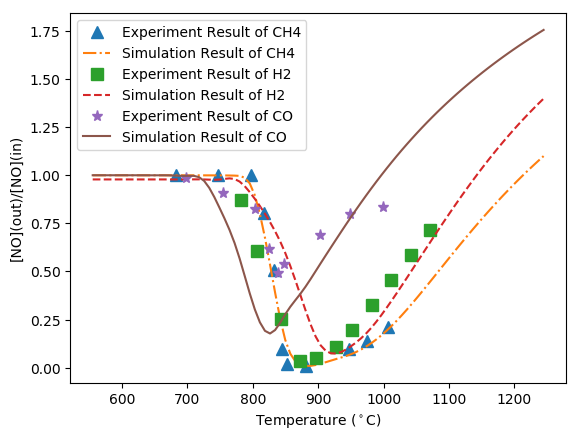
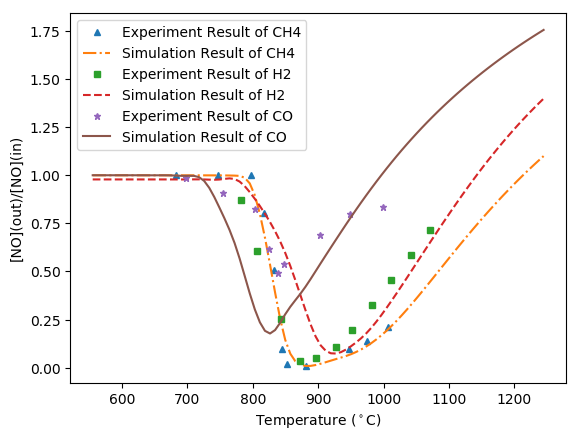
plot the additive only test nsr=0

diff --git a/AllFig4Thesis.py b/AllFig4Thesis.py
@@ -66,6 +66,73 @@ class plotData:
         draw_image(indicator='Mole fraction NO2 end point')
         draw_image(indicator='Mole fraction N2O end point')
         draw_image(indicator='Mole fraction NH3 end point')       
+    def Additive_NSR0(self):
+        df=pd.read_csv('DataAnalyse\CSV_4_SNCR\SNCR_NSR=0_T100.csv',header=0).drop_duplicates()
+        df.count()
+        add2=df[abs(df["Reactant Fraction for H2 C1 Inlet1 PFR (C1)_(mole_fraction)"]-9.0*(df["Reactant Fraction for CO2 C1 Inlet1 PFR (C1)_(mole_fraction)"]-0.15))<10e-6]
+        add2.count()
+        add1=df[abs(df["Reactant Fraction for H2 C1 Inlet1 PFR (C1)_(mole_fraction)"]-34.0/31.0*(df["Reactant Fraction for CO2 C1 Inlet1 PFR (C1)_(mole_fraction)"]-0.15))<10e-7]
+        #here we can not write 34/31, the python will take this as 1
+        #add1[add1["Reactant Fraction for H2 C1 Inlet1 PFR (C1)_(mole_fraction)"]==0].count()
+        add1.count()
+        h2_add1=np.linspace(0.000102,0.002754,num=14).tolist()
+        h2_add1.insert(0,0)# the first time I used h2_add1=h2_add1.inset, but it doesn t work, the result is not in the return value of insert
+        h2_add1=np.asarray(h2_add1[1:14:3])
+        h2_add2=np.linspace(0.27*3e-4,0.27*8.1e-3,num=14).tolist()
+        h2_add2.insert(0,0)# the first time I used h2_add1=h2_add1.inset, but it doesn t work, the result is not in the return value of insert
+        #h2_add2=np.asarray(h2_add2[1:14:3])
+        h2_add2=np.asarray([0,0.000081,0.000243,0.000405,0.000567,0.000729,0.000891,0.001053,0.001215,0.001377,0.001539,0.001701,0.001863, \
+                            0.002025,0.002187][1:14:3])
+        h2_percentage=[0.34,0.27]
+        symbol=['s','^','o','*','v','d','1']
+        k=0
+        for i in [0,1]:
+            addx=[add1,add2][i]
+            h2_addx=[h2_add1,h2_add2][i]
+            addx['Mole_Fraction_NOx']=addx['Mole fraction NO2 end point']+addx['Mole fraction NO end point']+addx['Mole fraction N2O end point']
+            for indicator in ['Mole fraction NO end point','Mole fraction NO2 end point','Mole fraction N2O end point','Mole_Fraction_NOx']:
+                plt.figure()
+                plt.xlabel('Temperature ($^\circ$C)',fontsize=self.axissize)
+                try:
+                    ylbl="["+indicator.split(" ")[2]+"](out)/[NO](in)"
+                except:
+                    ylbl="["+indicator.split("_")[2]+"](out)/[NO](in)"
+                plt.ylabel(ylbl,fontsize=self.axissize)
+                lgd=[]
+                for h2 in h2_addx:
+                    
+                    k=k+1
+                    dataSet=addx[abs(addx['Reactant Fraction for H2 C1 Inlet1 PFR (C1)_(mole_fraction)']-h2)<10e-6]
+                    f=interp1d(dataSet['Temperature C1 PFR PFR (C1)_(C)'],dataSet[indicator],kind='slinear')
+                    temperature_new=np.linspace(100,1240,num=90,endpoint=True)
+                    plt.plot(temperature_new,f(temperature_new)/(200e-6),symbol[k%7]+'--',markersize=self.mkrSize-2)
+                    lgd.append('Addtive#'+str(i+1)+'='+"{:.4f}".format(h2/h2_percentage[i]))                    
+                plt.legend(lgd,fontsize=self.lgdsize)
+                plt.savefig("DataAnalyse\\Fig\\"+ylbl.replace("/","")+".png",bbox_inches='tight')
+        df2=pd.read_csv(r'DataAnalyse\CSV_4_SNCR\NSR_New__ADD_ITL.csv',header=0)
+        df2['Mole Fraction NOx']=df2['Mole fraction NO2 end point']+df2['Mole fraction NO end point']+df2['Mole fraction N2O end point']
+        symbol=['s','^','o','*','v','d','1']
+        l=0
+        for indicator in ['Mole fraction NO end point','Mole fraction NO2 end point','Mole fraction N2O end point','Mole Fraction NOx']:
+            plt.figure()
+            plt.xlabel('Temperature ($^\circ$C)',fontsize=self.axissize)
+            try:
+                ylbl="["+indicator.split(" ")[2]+"](out)/[NO](in)"
+            except:
+                ylbl="["+indicator.split("_")[2]+"](out)/[NO](in)"
+            plt.ylabel(ylbl,fontsize=self.axissize)
+            lgd=[]
+            for j in np.array([0,1,2,3,4]):
+                l+=1
+                dataSet=df2[abs(df2['Reactant Fraction for NH3 C1 Inlet1 PFR (C1)_(mole_fraction)']-0.00012*j)<10e-7].drop_duplicates()
+                f=interp1d(dataSet['Temperature C1 PFR PFR (C1)_(C)'],dataSet[indicator],kind='cubic')
+                temperature_new=np.linspace(550,1250,num=90,endpoint=True)
+                plt.plot(temperature_new,f(temperature_new)/(200e-6),symbol[l%6]+'--',markersize=self.mkrSize-2)
+                lgd.append('NSR='+"{:.1f}".format(j*0.00012/0.0002)+":"+"NH3="+str(j*0.00012))                
+            plt.legend(lgd,fontsize=self.axissize)
+            plt.savefig("DataAnalyse\\Fig\\"+ylbl.replace("/","_")+".png",bbox_inches='tight')
+            plt.close()
+
     def verifyCaoQingXi(self):        
         symbol=iter(['^','s'])
         s=['-.','--']
@@ -82,7 +149,7 @@ class plotData:
 
             f=interp1d(df['Temperature C1 PFR PFR (C1)_(C)'],df['Mole fraction NO end point'],kind='cubic')
             temperature_new=np.linspace(555,1245,num=90,endpoint=True)
-            plt.plot(df_experiment['Temperature_K']-273.15--correct[iC],df_experiment['NO']*10**(-6)/initialCncntrtn[iC], next(symbol),temperature_new,f(temperature_new)/initialCncntrtn[iC],s[iC],markersize=8)
+            plt.plot(df_experiment['Temperature_K']-273.15--correct[iC],df_experiment['NO']*10**(-6)/initialCncntrtn[iC], next(symbol),temperature_new,f(temperature_new)/initialCncntrtn[iC],s[iC],markersize=self.mkrSize)
             iC=iC+1
         df_CO=pd.read_csv("DataAnalyse\\"+"CSV_4_SNCR\\LiDe-longYangMeiPapersTestify\CO.csv",header=0).drop_duplicates()
         df_CO.head()
@@ -91,7 +158,7 @@ class plotData:
         df_CO_experiment=pd.read_csv("DataAnalyse\\"+"CSV_4_SNCR\\LiDe-longYangMeiPapersTestify\CO.csv",header=0).drop_duplicates()
         f=interp1d(df_CO_Simulation['Temperature C1 PFR PFR (C1)_(C)'],df_CO_Simulation['Mole fraction NO end point'],kind='cubic')
         temperature_new=np.linspace(555,1245,num=90,endpoint=True)
-        plt.plot(df_CO_experiment['temperature'],df_CO_experiment['NOout/Noin']/100,'*',temperature_new,f(temperature_new)/0.0002,markersize=8)
+        plt.plot(df_CO_experiment['temperature'],df_CO_experiment['NOout/Noin']/100,'*',temperature_new,f(temperature_new)/0.0002,markersize=self.mkrSize)
 
         plt.xlabel('Temperature ($^\circ$C)',fontsize=self.axissize )
         plt.ylabel('[NO](out)/[NO](in)',fontsize=self.axissize)
@@ -687,9 +754,10 @@ class plotData:
         #plt.title('Convergence of Genetic Algorithm',fontsize='large')
         plt.savefig("DataAnalyse\\Fig\\GA_Convergence.png",bbox_inches='tight')
         #plt.show()
-
+    
 if __name__=='__main__':
     figPlotter=plotData('large')
+    
     figPlotter.onlyAdditive()
     figPlotter.verifyCaoQingXi()
     figPlotter.SNCR_AdditiveDetail()
@@ -709,4 +777,5 @@ if __name__=='__main__':
     figPlotter.Additive_Overall_Fig()
     figPlotter.AdditiveTemperatureShift()
     figPlotter.GA_Convergence_Fig()
-
+    
+    figPlotter.Additive_NSR0()
